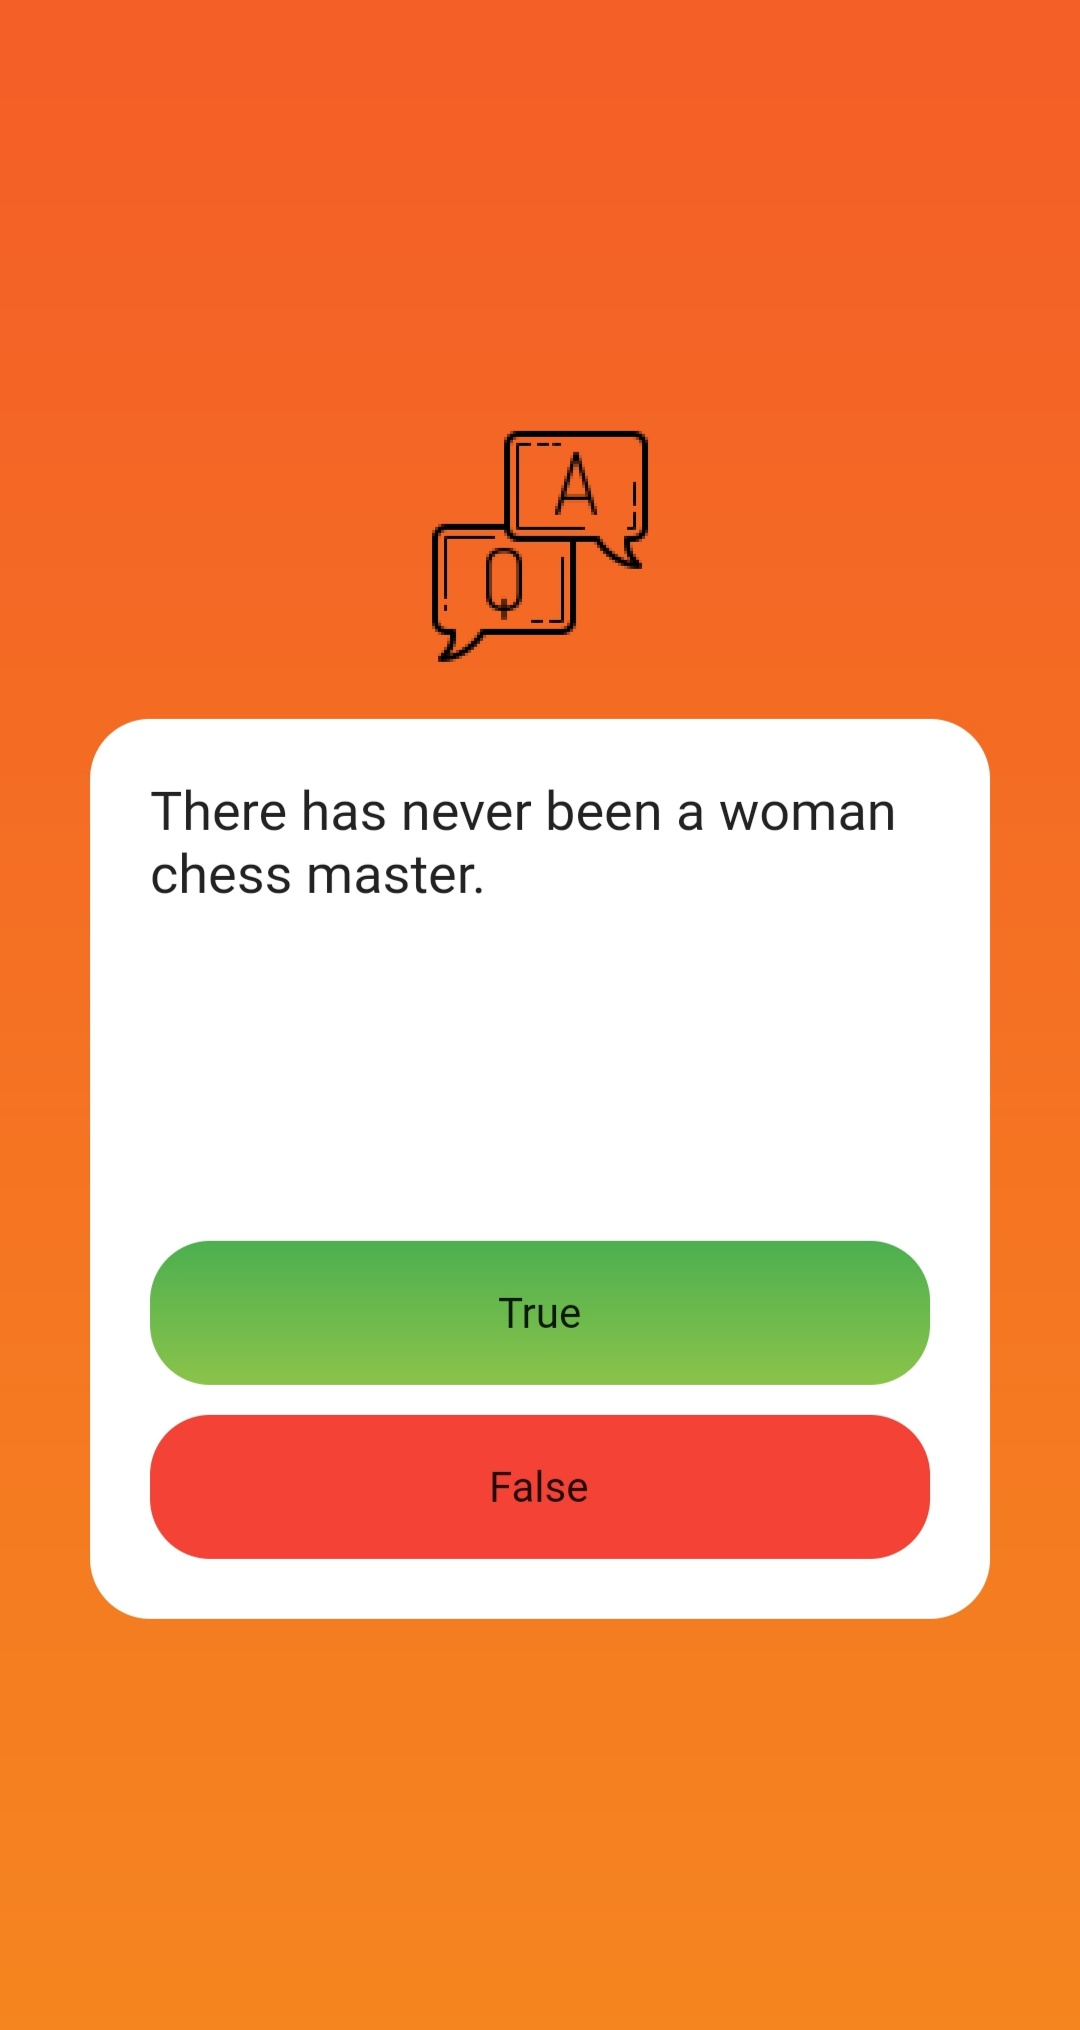
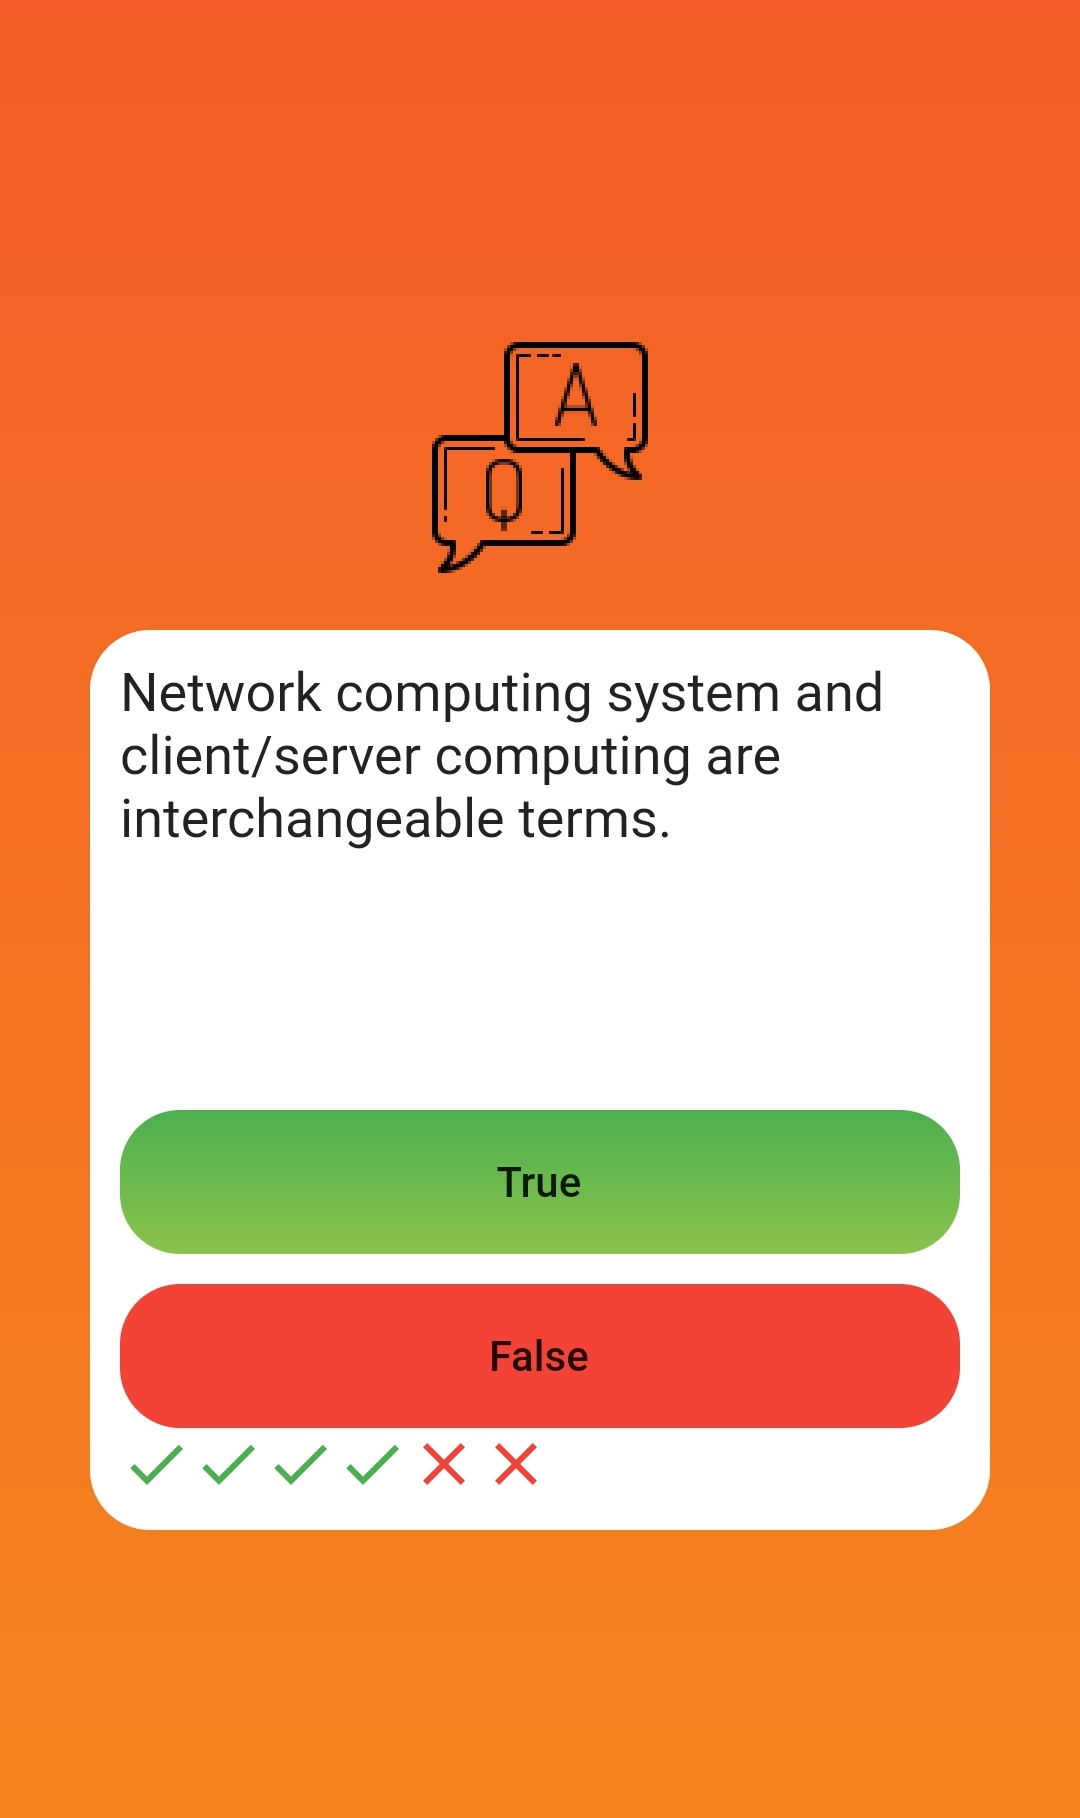
Add real time ans. check

Changed region(s): [[0.0611, 0.5853, 0.9167, 0.8625], [0.0917, 0.1848, 0.9167, 0.462], [0.1528, 0.5853, 0.1833, 0.6161]]

diff --git a/lib/questionList.dart b/lib/questionList.dart
@@ -1,28 +1,40 @@
-import 'package:flutter/material.dart';
-import 'package:quizify/main.dart';
-
-import 'categories.dart';
 import 'question.dart';
 
 class QuestionList {
-
   int questionNumber = 0;
   String name;
 
   List<Question> _computer = [
-    Question(ques: 'Freeware is software that is available for use at no monetary cost.', ans: true),
-    Question(ques: 'IPv6 Internet Protocol address is represented as eight groups of four Octal digits.', ans: false),
+    Question(
+        ques:
+            'Freeware is software that is available for use at no monetary cost.',
+        ans: true),
+    Question(
+        ques:
+            'IPv6 Internet Protocol address is represented as eight groups of four Octal digits.',
+        ans: false),
     Question(ques: 'GNU / Linux is a open source operating system.', ans: true),
-    Question(ques: 'A compiler is a translation program that converts high-level instructions into a set of binary instructions (machine code) for execution.', ans: true),
+    Question(
+        ques:
+            'A compiler is a translation program that converts high-level instructions into a set of binary instructions (machine code) for execution.',
+        ans: true),
     Question(ques: 'MS Word is a hardware.', ans: false),
-    Question(ques: 'The language understood by the microprocessor is called assembly language.', ans: false),
-    Question(ques: 'Network computing system and client/server computing are interchangeable terms.', ans: true),
+    Question(
+        ques:
+            'The language understood by the microprocessor is called assembly language.',
+        ans: false),
+    Question(
+        ques:
+            'Network computing system and client/server computing are interchangeable terms.',
+        ans: true),
   ];
 
   List<Question> _sports = [
     Question(ques: 'There has never been a woman chess master.', ans: false),
     Question(ques: 'Polo is not an Olympic sport.', ans: true),
-    Question(ques: 'In the Tour de France, the winner wears a yellow jersey.', ans: true),
+    Question(
+        ques: 'In the Tour de France, the winner wears a yellow jersey.',
+        ans: true),
     Question(ques: 'There are six balls in an over.', ans: true),
     Question(ques: 'There are 30 balls in the game of snooker.', ans: false),
     Question(ques: 'Cricket Is Same As Baseball.', ans: false),
@@ -30,40 +42,44 @@ class QuestionList {
   ];
 
   List<Question> _space = [
-    Question(ques: 'In 1991, there were 60,000 jellyfish orbiting Earth.', ans: true),
-    Question(ques: 'The Great Wall of China is the only human-made object you can see from space.', ans: false),
+    Question(
+        ques: 'In 1991, there were 60,000 jellyfish orbiting Earth.',
+        ans: true),
+    Question(
+        ques:
+            'The Great Wall of China is the only human-made object you can see from space.',
+        ans: false),
     Question(ques: 'There\'s a class of stars that are just 25ºC.', ans: true),
-    Question(ques: 'The sun makes up 99.8% of the mass of the solar system.', ans: true),
-    Question(ques: 'The nearest black hole to Earth is just 1,600 light years away.', ans: false),
+    Question(
+        ques: 'The sun makes up 99.8% of the mass of the solar system.',
+        ans: true),
+    Question(
+        ques: 'The nearest black hole to Earth is just 1,600 light years away.',
+        ans: false),
     Question(ques: 'The sun is yellow.', ans: false),
-    Question(ques: 'All of the other planets in the solar system could fit between Earth and the moon.', ans: true),
+    Question(
+        ques:
+            'All of the other planets in the solar system could fit between Earth and the moon.',
+        ans: true),
   ];
 
-  String getQuestion ({String name, int counter}) {
+  String getQuestion({String name, int counter}) {
     if (name == '_computer') {
       return _computer[counter].questionText;
-    }
-    else if (name == '_sports') {
+    } else if (name == '_sports') {
       return _sports[counter].questionText;
-    }
-    else {
+    } else {
       return _space[counter].questionText;
     }
   }
 
-  bool getAnswer ({String name, int counter}) {
+  bool getAnswer({String name, int counter}) {
     if (name == '_computer') {
       return _computer[counter].questionAnswer;
-    }
-    else if (name == '_sports') {
+    } else if (name == '_sports') {
       return _sports[counter].questionAnswer;
-    }
-    else {
+    } else {
       return _space[counter].questionAnswer;
     }
   }
-
-
 }
-
-

diff --git a/lib/questionPage.dart b/lib/questionPage.dart
@@ -1,9 +1,7 @@
 import 'package:flutter/cupertino.dart';
 import 'package:flutter/material.dart';
-import 'package:rflutter_alert/rflutter_alert.dart';
 import 'package:quizify/questionList.dart';
 import 'package:quizify/result.dart';
-import 'categories.dart';
 import 'questionList.dart';
 
 QuestionList questionList = QuestionList();
@@ -38,8 +36,10 @@ class QuizPage extends StatefulWidget {
 }
 
 class _QuizPageState extends State<QuizPage> {
+
   int correct = 0;
   int questionNumber = 0;
+  List<Icon> scoreKeeper = [];
 
   void nextQuestion(context, correct) {
     if (questionNumber < 6) {
@@ -53,6 +53,16 @@ class _QuizPageState extends State<QuizPage> {
   void checkAnswer({QuestionList obj, bool answer, int counter}) {
     if (obj.getAnswer(name: lname, counter: counter) == answer) {
       correct++;
+      scoreKeeper.add(Icon(
+        Icons.check,
+        color: Colors.green,
+      ));
+    }
+    else {
+      scoreKeeper.add(Icon(
+        Icons.close,
+        color: Colors.red,
+      ));
     }
   }
 
@@ -81,7 +91,7 @@ class _QuizPageState extends State<QuizPage> {
             ),
             Center(
               child: Container(
-                padding: EdgeInsets.all(20),
+                padding: EdgeInsets.all(10),
                 decoration: BoxDecoration(
                     borderRadius: BorderRadius.all(Radius.circular(20)),
                     color: Colors.white),
@@ -147,6 +157,9 @@ class _QuizPageState extends State<QuizPage> {
                         },
                         child: Text('False'),
                       ),
+                    ),
+                    Row(
+                      children: scoreKeeper,
                     ),
 
                   ],
